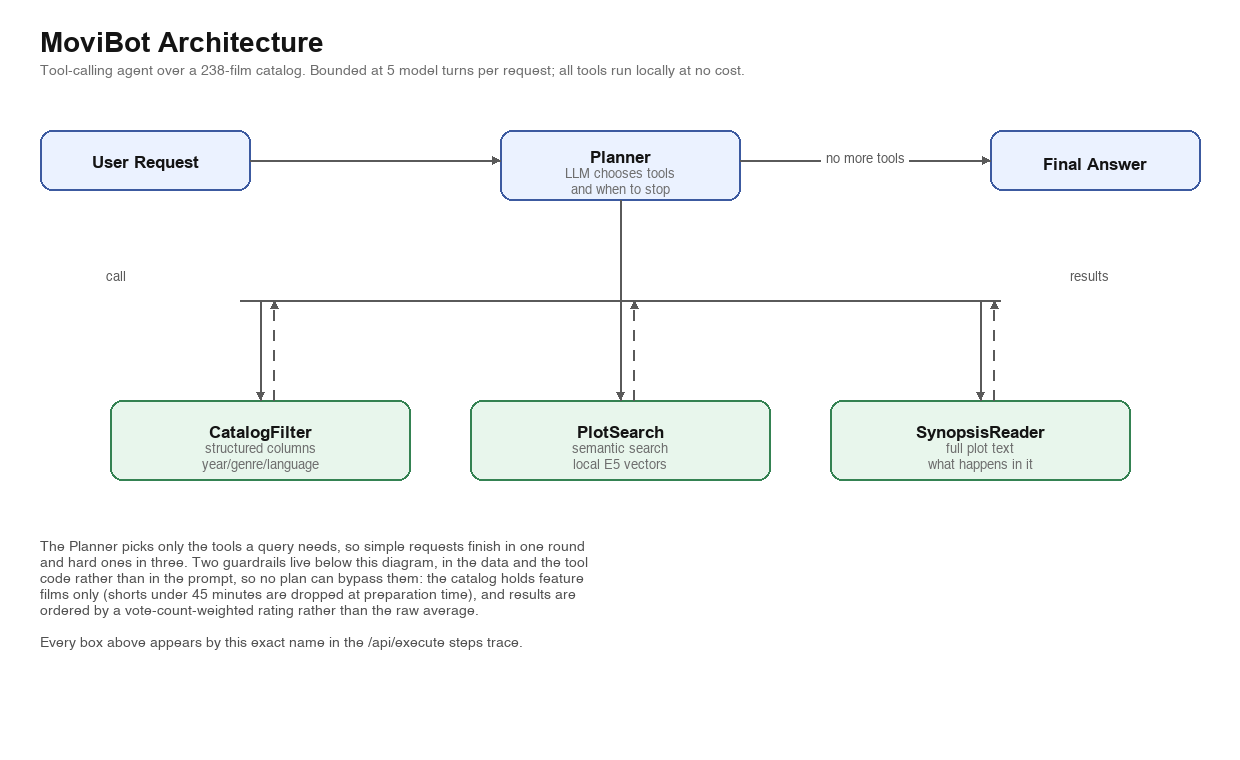
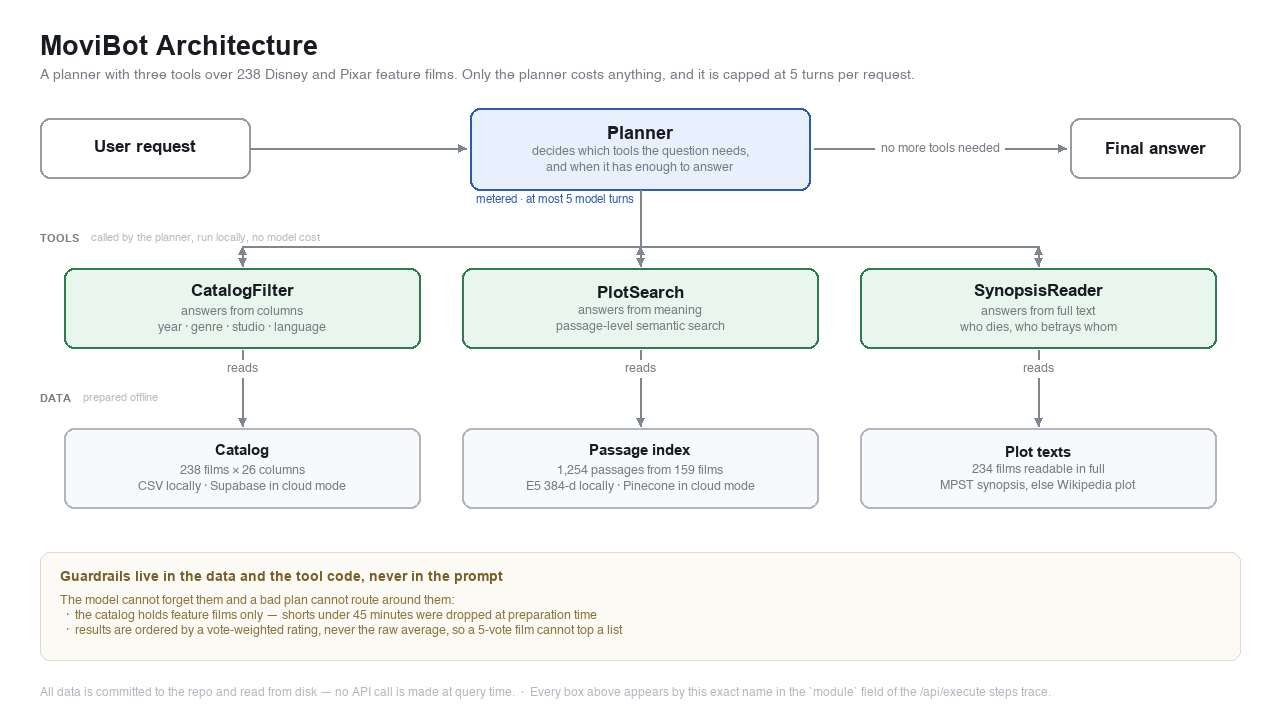
Redraw the architecture diagram with the data layer
The old diagram showed the planner and three tools but nothing underneath
them, which left out the half a reader most needs: what each tool actually
reads. It also had a tangle of overlapping solid and dashed call/return lines
and ~150px of dead space at the bottom.

Now three labelled layers -- request/planner/answer, tools, data -- with each
tool sitting directly above the store it reads: the catalog (238 x 26), the
passage index (1,254 passages from 159 films), and the plot texts (234 films,
MPST falling back to Wikipedia). Each data box names its local and cloud
backend, so the MOVIBOT_BACKEND / MOVIBOT_EMBEDDINGS split is visible rather
than buried in env docs.

Colour now carries one idea: blue for the single metered step, green for
everything free and local. Call and return are one double-headed arrow per
tool instead of two overlapping lines.

Every figure is read at render time -- module names from tools.TRACE_NAMES, the
turn bound from loop.MAX_ROUNDS, row counts from data_ready/ -- so re-preparing
the catalog cannot leave a stale number on a graded endpoint. Verified the
diagram's boxes, agent_info.json, and TRACE_NAMES all agree.

diff --git a/scripts/generate_architecture_diagram.py b/scripts/generate_architecture_diagram.py
@@ -1,10 +1,13 @@
-"""Renders assets/architecture.png from MoviBot's actual module list.
+"""Renders assets/architecture.png from MoviBot's actual modules and data.
 
-Offline only (PIL, no network or model calls). The labels here must stay in
-sync with the `module` values logged by agent/loop.py -- which come from
-agent.tools.TRACE_NAMES -- and with agent_info.json, since the assignment
-requires identical naming across the diagram, the /api/execute steps trace,
-and the agent description.
+Offline only (PIL, no network or model calls).
+
+Two things this diagram must not drift from, so both are read rather than typed:
+module names come from agent.tools.TRACE_NAMES and the turn bound from
+agent.loop.MAX_ROUNDS -- the assignment requires identical naming across the
+diagram, the /api/execute steps trace, and agent_info.json -- and the row counts
+come from data_ready/, so a re-prepared catalog cannot leave a stale figure on
+the page.
 
 Usage: python scripts/generate_architecture_diagram.py
 """
@@ -12,22 +15,30 @@ Usage: python scripts/generate_architecture_diagram.py
 import os
 import sys
 
+import pandas as pd
 from PIL import Image, ImageDraw, ImageFont
 
 sys.path.insert(0, os.path.join(os.path.dirname(__file__), ".."))
 from agent import loop, tools  # noqa: E402
 
-WIDTH, HEIGHT = 1240, 760
-BG = (255, 255, 255)
-BOX_FILL = (235, 242, 255)
-BOX_OUTLINE = (60, 90, 160)
-FREE_FILL = (232, 246, 236)
-FREE_OUTLINE = (52, 130, 82)
-TEXT_COLOR = (20, 20, 20)
-MUTED = (110, 110, 110)
-ARROW_COLOR = (90, 90, 90)
+_ROOT = os.path.join(os.path.dirname(__file__), "..")
+_DATA = os.path.join(_ROOT, "data_preprocessing", "data_ready")
+OUTPUT_PATH = os.path.join(_ROOT, "assets", "architecture.png")
 
-OUTPUT_PATH = os.path.join(os.path.dirname(__file__), "..", "assets", "architecture.png")
+WIDTH, HEIGHT = 1280, 720
+
+BG = (255, 255, 255)
+INK = (24, 28, 34)
+MUTED = (118, 124, 132)
+RULE = (226, 230, 235)
+ARROW = (128, 134, 142)
+
+# Blue marks the one metered step; green marks everything that is free and
+# local. That distinction is the main thing a reader should take away.
+PAID_FILL, PAID_LINE = (233, 240, 253), (48, 92, 176)
+FREE_FILL, FREE_LINE = (233, 246, 237), (46, 125, 80)
+DATA_FILL, DATA_LINE = (248, 249, 250), (176, 183, 191)
+PLAIN_FILL, PLAIN_LINE = (255, 255, 255), (150, 157, 165)
 
 
 def _font(size: int, bold: bool = False):
@@ -44,126 +55,193 @@ def _font(size: int, bold: bool = False):
     return ImageFont.load_default()
 
 
-def _box(draw, xy, title, subtitle=None, free=False):
-    fill = FREE_FILL if free else BOX_FILL
-    outline = FREE_OUTLINE if free else BOX_OUTLINE
-    draw.rounded_rectangle(xy, radius=12, fill=fill, outline=outline, width=2)
+def _centre(draw, cx, y, text, font, fill):
+    b = draw.textbbox((0, 0), text, font=font)
+    draw.text((cx - (b[2] - b[0]) / 2, y), text, fill=fill, font=font)
 
+
+def _box(draw, xy, title, lines=(), fill=PLAIN_FILL, line=PLAIN_LINE,
+         title_size=17):
+    draw.rounded_rectangle(xy, radius=10, fill=fill, outline=line, width=2)
     x0, y0, x1, y1 = xy
-    cx, cy = (x0 + x1) / 2, (y0 + y1) / 2
-    tf, sf = _font(17, bold=True), _font(13)
+    cx = (x0 + x1) / 2
 
-    if subtitle:
-        b = draw.textbbox((0, 0), title, font=tf)
-        draw.text((cx - (b[2] - b[0]) / 2, cy - 18), title, fill=TEXT_COLOR, font=tf)
-        for i, line in enumerate(subtitle.split("\n")):
-            b = draw.textbbox((0, 0), line, font=sf)
-            draw.text((cx - (b[2] - b[0]) / 2, cy + 2 + i * 16), line, fill=MUTED, font=sf)
-    else:
-        b = draw.textbbox((0, 0), title, font=tf)
-        draw.text((cx - (b[2] - b[0]) / 2, cy - (b[3] - b[1]) / 2), title,
-                  fill=TEXT_COLOR, font=tf)
+    tf = _font(title_size, bold=True)
+    sf = _font(12.5)
+    block = (draw.textbbox((0, 0), title, font=tf)[3] + 4) + len(lines) * 16
+    y = (y0 + y1) / 2 - block / 2
+
+    _centre(draw, cx, y, title, tf, INK)
+    y += draw.textbbox((0, 0), title, font=tf)[3] + 6
+    for text in lines:
+        _centre(draw, cx, y, text, sf, MUTED)
+        y += 16
 
 
-def _arrow(draw, p0, p1, label=None, dashed=False):
-    if dashed:
-        x0, y0 = p0
-        x1, y1 = p1
-        total = max(((x1 - x0) ** 2 + (y1 - y0) ** 2) ** 0.5, 1e-6)
-        steps = int(total // 10)
-        for i in range(steps):
-            if i % 2:
-                continue
-            a = (x0 + (x1 - x0) * i / steps, y0 + (y1 - y0) * i / steps)
-            b = (x0 + (x1 - x0) * (i + 1) / steps, y0 + (y1 - y0) * (i + 1) / steps)
-            draw.line([a, b], fill=ARROW_COLOR, width=2)
-    else:
-        draw.line([p0, p1], fill=ARROW_COLOR, width=2)
+def _arrow(draw, p0, p1, both=False, width=2):
+    draw.line([p0, p1], fill=ARROW, width=width)
 
-    x1, y1 = p1
-    dx, dy = x1 - p0[0], y1 - p0[1]
-    length = max((dx ** 2 + dy ** 2) ** 0.5, 1e-6)
-    ux, uy = dx / length, dy / length
-    s = 8
-    left = (x1 - s * ux + s * 0.5 * -uy, y1 - s * uy + s * 0.5 * ux)
-    right = (x1 - s * ux - s * 0.5 * -uy, y1 - s * uy - s * 0.5 * ux)
-    draw.polygon([p1, left, right], fill=ARROW_COLOR)
+    def head(tip, frm):
+        dx, dy = tip[0] - frm[0], tip[1] - frm[1]
+        n = max((dx * dx + dy * dy) ** 0.5, 1e-6)
+        ux, uy = dx / n, dy / n
+        s = 8
+        draw.polygon([
+            tip,
+            (tip[0] - s * ux + s * 0.5 * -uy, tip[1] - s * uy + s * 0.5 * ux),
+            (tip[0] - s * ux - s * 0.5 * -uy, tip[1] - s * uy - s * 0.5 * ux),
+        ], fill=ARROW)
 
-    if label:
-        f = _font(13)
-        mx, my = (p0[0] + x1) / 2, (p0[1] + y1) / 2
-        b = draw.textbbox((0, 0), label, font=f)
-        draw.rectangle(
-            (mx - (b[2] - b[0]) / 2 - 4, my - 9, mx + (b[2] - b[0]) / 2 + 4, my + 9),
-            fill=BG,
-        )
-        draw.text((mx - (b[2] - b[0]) / 2, my - 8), label, fill=ARROW_COLOR, font=f)
+    head(p1, p0)
+    if both:
+        head(p0, p1)
+
+
+def _label(draw, cx, cy, text, font=None):
+    font = font or _font(12.5)
+    b = draw.textbbox((0, 0), text, font=font)
+    w, h = b[2] - b[0], b[3] - b[1]
+    draw.rectangle((cx - w / 2 - 5, cy - h / 2 - 3, cx + w / 2 + 5, cy + h / 2 + 5), fill=BG)
+    draw.text((cx - w / 2, cy - h / 2 - 1), text, fill=MUTED, font=font)
+
+
+def _band(draw, y, text, note):
+    f, fn = _font(11, bold=True), _font(11)
+    draw.text((40, y), text.upper(), fill=MUTED, font=f)
+    w = draw.textbbox((0, 0), text.upper(), font=f)[2]
+    draw.text((40 + w + 12, y), note, fill=(180, 186, 193), font=fn)
+
+
+def counts() -> dict:
+    """Figures for the data layer, read from the prepared files."""
+    catalog = pd.read_csv(os.path.join(_DATA, "supabase_movies.csv"))
+    synopses = pd.read_csv(os.path.join(_DATA, "pinecone_candidates.csv"))
+    wiki = pd.read_csv(os.path.join(_DATA, "wikipedia_cache.csv"))
+    chunks = pd.read_parquet(os.path.join(_DATA, "plot_chunks.parquet"))
+
+    mpst = set(synopses["movie_id"])
+    wiki_plot = set(wiki.loc[wiki["plot_text"].notna(), "id"])
+
+    return {
+        "films": len(catalog),
+        "columns": catalog.shape[1],
+        "passages": len(chunks),
+        "indexed_films": chunks["movie_id"].nunique(),
+        "readable": len(mpst | wiki_plot),
+    }
 
 
 def main() -> None:
+    n = counts()
     img = Image.new("RGB", (WIDTH, HEIGHT), BG)
     draw = ImageDraw.Draw(img)
 
-    draw.text((40, 26), "MoviBot Architecture", fill=TEXT_COLOR, font=_font(28, bold=True))
+    draw.text((40, 30), "MoviBot Architecture", fill=INK, font=_font(27, bold=True))
     draw.text(
-        (40, 64),
-        f"Tool-calling agent over a 238-film catalog. Bounded at "
-        f"{loop.MAX_ROUNDS} model turns per request; all tools run locally at no cost.",
+        (40, 68),
+        f"A planner with three tools over {n['films']} Disney and Pixar feature films. "
+        f"Only the planner costs anything, and it is capped at {loop.MAX_ROUNDS} turns "
+        f"per request.",
         fill=MUTED, font=_font(14),
     )
 
-    user = (40, 130, 250, 190)
-    planner = (500, 130, 740, 200)
-    answer = (990, 130, 1200, 190)
+    # ---- request / planner / answer -----------------------------------
+    req = (40, 118, 250, 178)
+    plan = (470, 108, 810, 190)
+    ans = (1070, 118, 1240, 178)
 
-    _box(draw, user, "User Request")
-    _box(draw, planner, "Planner", "LLM chooses tools\nand when to stop")
-    _box(draw, answer, "Final Answer")
+    _box(draw, req, "User request")
+    _box(draw, plan, tools.TRACE_NAMES.get("planner", "Planner"),
+         ("decides which tools the question needs,", "and when it has enough to answer"),
+         fill=PAID_FILL, line=PAID_LINE, title_size=18)
+    _box(draw, ans, "Final answer")
 
-    _arrow(draw, (250, 160), (500, 160))
-    _arrow(draw, (740, 160), (990, 160), label="no more tools")
+    _arrow(draw, (250, 148), (466, 148))
+    _arrow(draw, (814, 148), (1066, 148))
+    _label(draw, 940, 148, "no more tools needed")
 
-    # Tools row, labelled with the same names logged in the steps trace.
+    draw.text((476, 194), f"metered · at most {loop.MAX_ROUNDS} model turns",
+              fill=PAID_LINE, font=_font(11.5))
+
+    # ---- tools ---------------------------------------------------------
+    _band(draw, 232, "Tools", "called by the planner, run locally, no model cost")
+
     specs = [
-        (tools.TRACE_NAMES["filter_catalog"], "structured columns\nyear/genre/language"),
-        (tools.TRACE_NAMES["search_plots"], "semantic search\nlocal E5 vectors"),
-        (tools.TRACE_NAMES["read_synopses"], "full plot text\nwhat happens in it"),
+        ("filter_catalog", ("answers from columns",
+                            "year · genre · studio · language")),
+        ("search_plots", ("answers from meaning",
+                          "passage-level semantic search")),
+        ("read_synopses", ("answers from full text",
+                           "who dies, who betrays whom")),
     ]
-    y0, y1 = 400, 480
-    w, gap = 300, 60
-    start = (WIDTH - (w * len(specs) + gap * (len(specs) - 1))) / 2
+    tw, gap = 356, 42
+    start = (WIDTH - (tw * 3 + gap * 2)) / 2
+    ty0, ty1 = 268, 348
 
-    boxes = []
-    for i, (name, sub) in enumerate(specs):
-        x0 = start + i * (w + gap)
-        box = (x0, y0, x0 + w, y1)
-        boxes.append(box)
-        _box(draw, box, name, sub, free=True)
+    tool_boxes = []
+    for i, (key, sub) in enumerate(specs):
+        x0 = start + i * (tw + gap)
+        box = (x0, ty0, x0 + tw, ty1)
+        tool_boxes.append(box)
+        _box(draw, box, tools.TRACE_NAMES[key], sub, fill=FREE_FILL, line=FREE_LINE)
 
-    for box in boxes:
+    # One bus off the planner, then a two-way link into each tool: the planner
+    # calls, the result comes back to the planner. Drawn as double-headed
+    # arrows rather than separate call/return lines, which turned into a
+    # thicket of overlapping dashes in the previous version.
+    bus_y = 246
+    draw.line([(640, 190), (640, bus_y)], fill=ARROW, width=2)
+    draw.line([((tool_boxes[0][0] + tool_boxes[0][2]) / 2, bus_y),
+               ((tool_boxes[-1][0] + tool_boxes[-1][2]) / 2, bus_y)], fill=ARROW, width=2)
+    for box in tool_boxes:
         cx = (box[0] + box[2]) / 2
-        _arrow(draw, (cx, y0 - 100), (cx, y0))
-        _arrow(draw, (cx + 14, y0), (cx + 14, y0 - 100), dashed=True)
+        _arrow(draw, (cx, bus_y), (cx, ty0 - 2), both=True)
 
-    draw.text((start - 4, y0 - 130), "call", fill=ARROW_COLOR, font=_font(13))
-    draw.text((boxes[-1][2] - 60, y0 - 130), "results", fill=ARROW_COLOR, font=_font(13))
-    draw.line([(620, 200), (620, 300)], fill=ARROW_COLOR, width=2)
-    draw.line([(240, 300), (1000, 300)], fill=ARROW_COLOR, width=2)
+    # ---- data ----------------------------------------------------------
+    _band(draw, 392, "Data", "prepared offline")
+
+    data = [
+        ("Catalog", (f"{n['films']} films × {n['columns']} columns",
+                     "CSV locally · Supabase in cloud mode")),
+        ("Passage index", (f"{n['passages']:,} passages from {n['indexed_films']} films",
+                           "E5 384-d locally · Pinecone in cloud mode")),
+        ("Plot texts", (f"{n['readable']} films readable in full",
+                        "MPST synopsis, else Wikipedia plot")),
+    ]
+    dy0, dy1 = 428, 508
+    for box, (title, sub) in zip(tool_boxes, data):
+        dbox = (box[0], dy0, box[2], dy1)
+        _box(draw, dbox, title, sub, fill=DATA_FILL, line=DATA_LINE, title_size=15)
+        cx = (box[0] + box[2]) / 2
+        _arrow(draw, (cx, ty1 + 2), (cx, dy0 - 2))
+        _label(draw, cx, ty1 + 20, "reads")
+
+    # ---- guardrails ----------------------------------------------------
+    gy = 552
+    draw.rounded_rectangle((40, gy, WIDTH - 40, gy + 108), radius=10,
+                           fill=(252, 250, 244), outline=(228, 218, 196), width=1)
+    draw.text((60, gy + 16), "Guardrails live in the data and the tool code, never in the prompt",
+              fill=(122, 96, 40), font=_font(14, bold=True))
+    draw.text(
+        (60, gy + 42),
+        "The model cannot forget them and a bad plan cannot route around them:\n"
+        "  ·  the catalog holds feature films only — shorts under 45 minutes were dropped at preparation time\n"
+        "  ·  results are ordered by a vote-weighted rating, never the raw average, so a 5-vote film cannot top a list",
+        fill=(140, 116, 62), font=_font(12.5), spacing=5,
+    )
 
     draw.text(
-        (40, 540),
-        "The Planner picks only the tools a query needs, so simple requests finish in one round\n"
-        "and hard ones in three. Two guardrails live below this diagram, in the data and the tool\n"
-        "code rather than in the prompt, so no plan can bypass them: the catalog holds feature\n"
-        "films only (shorts under 45 minutes are dropped at preparation time), and results are\n"
-        "ordered by a vote-count-weighted rating rather than the raw average.\n\n"
-        "Every box above appears by this exact name in the /api/execute steps trace.",
-        fill=(80, 80, 80), font=_font(14), spacing=5,
+        (40, HEIGHT - 34),
+        "All data is committed to the repo and read from disk — no API call is made at query time.  ·  "
+        "Every box above appears by this exact name in the `module` field of the /api/execute steps trace.",
+        fill=(178, 184, 191), font=_font(12),
     )
 
     os.makedirs(os.path.dirname(OUTPUT_PATH), exist_ok=True)
     img.save(OUTPUT_PATH)
-    print(f"Wrote {OUTPUT_PATH}  ({', '.join(n for n, _ in specs)})")
+    print(f"Wrote {OUTPUT_PATH}")
+    print(f"  modules: {', '.join(tools.TRACE_NAMES[k] for k, _ in specs)}")
+    print(f"  data:    {n}")
 
 
 if __name__ == "__main__":

diff --git a/TODO.md b/TODO.md
@@ -120,7 +120,8 @@ but would make the local and Pinecone indexes diverge — decide before doing it
       `MOVIBOT_BACKEND=cloud`, `MOVIBOT_EMBEDDINGS=cloud`
 - [ ] Deploy, verify all four endpoints in production
 - [ ] Confirm a real query finishes well inside Vercel's 300s limit
-- [ ] Confirm `steps` module names match `assets/architecture.png` exactly
+- [x] Confirm `steps` module names match `assets/architecture.png` exactly —
+      the diagram now reads them from `tools.TRACE_NAMES`, so they cannot drift
 - [ ] `README.md` — fill in the deployed URL
 
 ---
